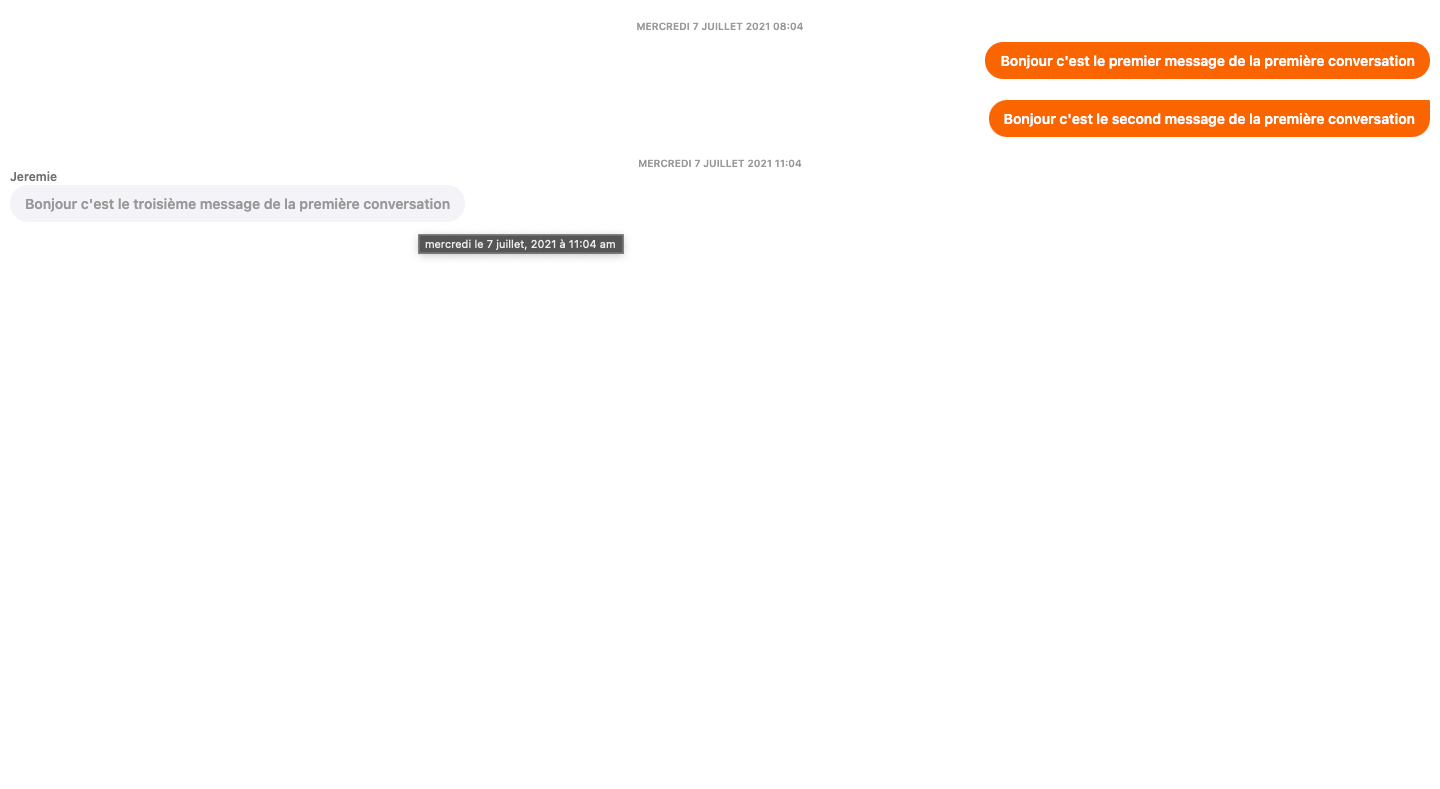
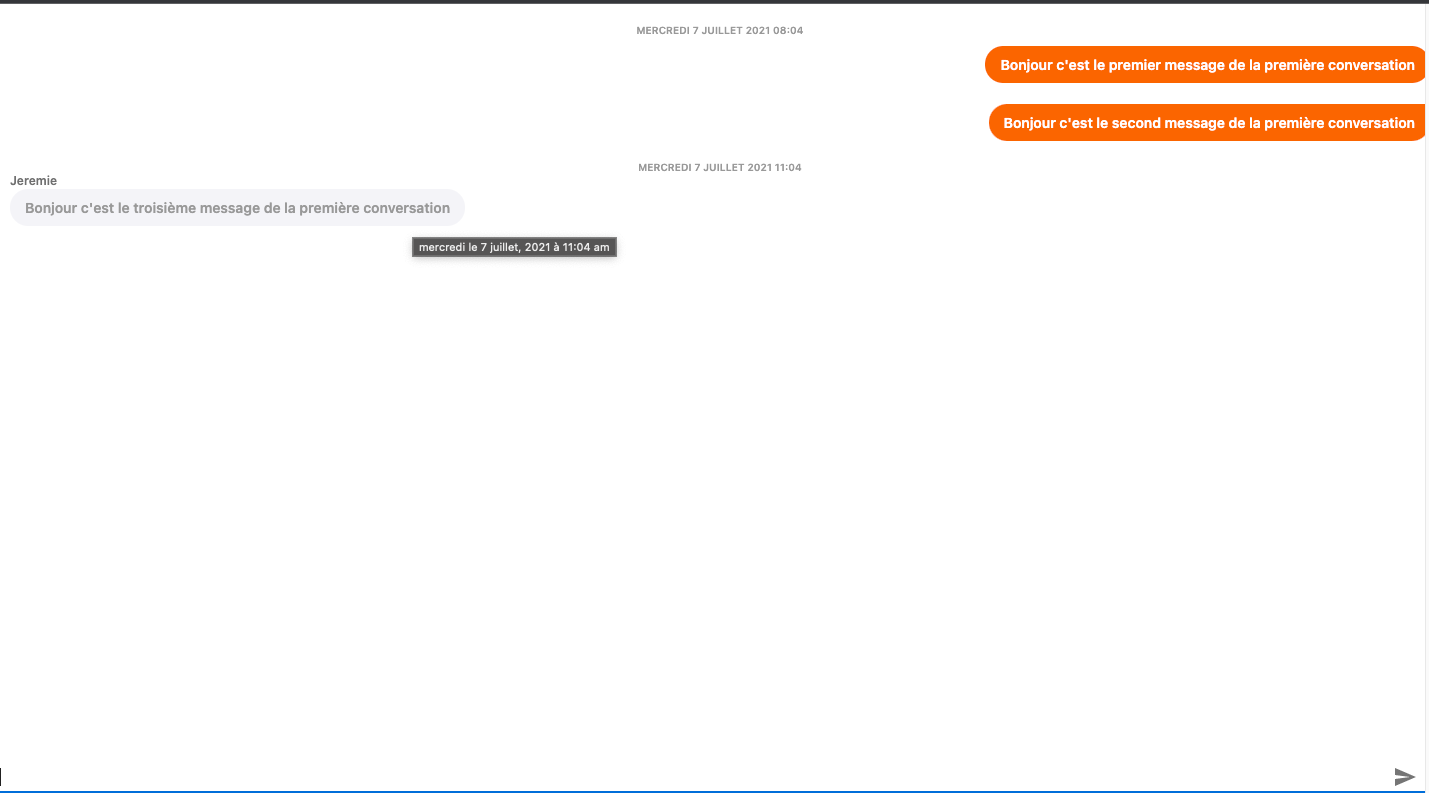
updated readme + new screenshots

diff --git a/src/components/Message/MessageContainer/index.tsx b/src/components/Message/MessageContainer/index.tsx
@@ -30,7 +30,7 @@ const MessageContainer: FC<MessageContainerProps> = ({ conversationId }) => {
       <div className={styles["message-container-stacks-container"]}>
         <Stack spacing={2}>
           <MessageList currentUserId={loggedUserId} messages={messages} />
-          
+          <MessageInput conversationId={conversationId} />
         </Stack>
       </div>
     )}

diff --git a/README.md b/README.md
@@ -27,6 +27,9 @@ Desktop list :
 Mobile conversation :
 
 ![](./sketches/msg-mobile.png)
+Mobile empty conversation :
+
+![](./sketches/msg-mobile-no-messages.png)
 
 Desktop conversation :
 
